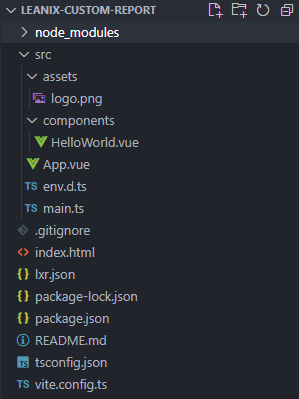
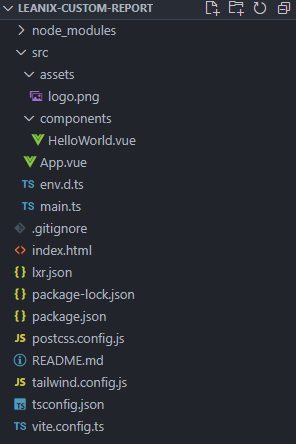
current state

Changed region(s): [[0.0, 0.0, 0.5169, 0.9925], [0.6689, 0.0, 0.9122, 0.0602], [0.9426, 0.0, 1.0, 0.0602]]

diff --git a/packages/docs/src/data/tutorials/01_creatingFirstCustomReport.md b/packages/docs/src/data/tutorials/01_creatingFirstCustomReport.md
@@ -20,6 +20,8 @@ After the project is created run the commands in terminal:
 ```bash
 cd leanix-custom-report
 npm install lxr-ui
+npm install -D tailwindcss postcss autoprefixer
+npx tailwindcss init -p
 ```
 
 You project folder should have now the following structure:
